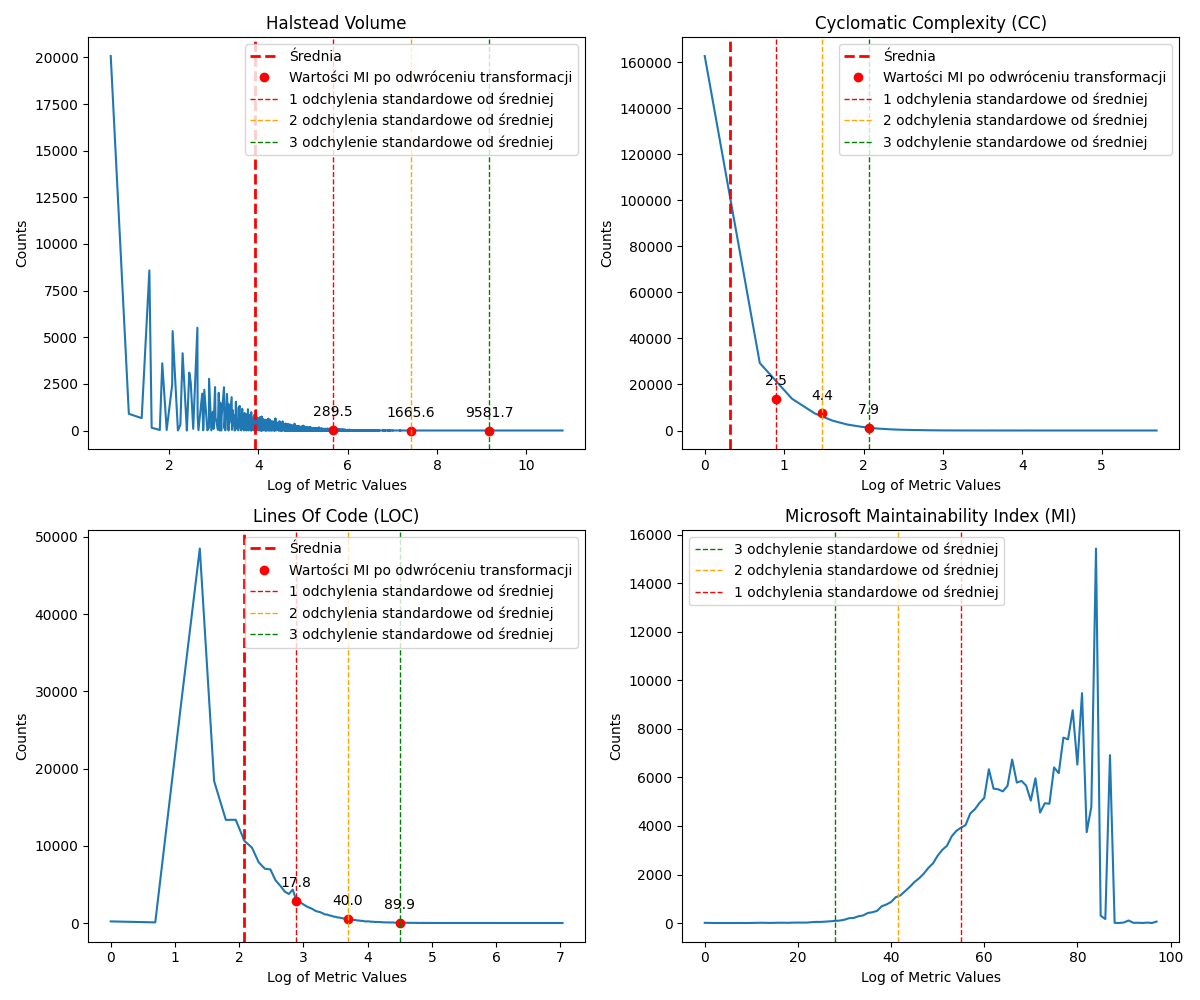
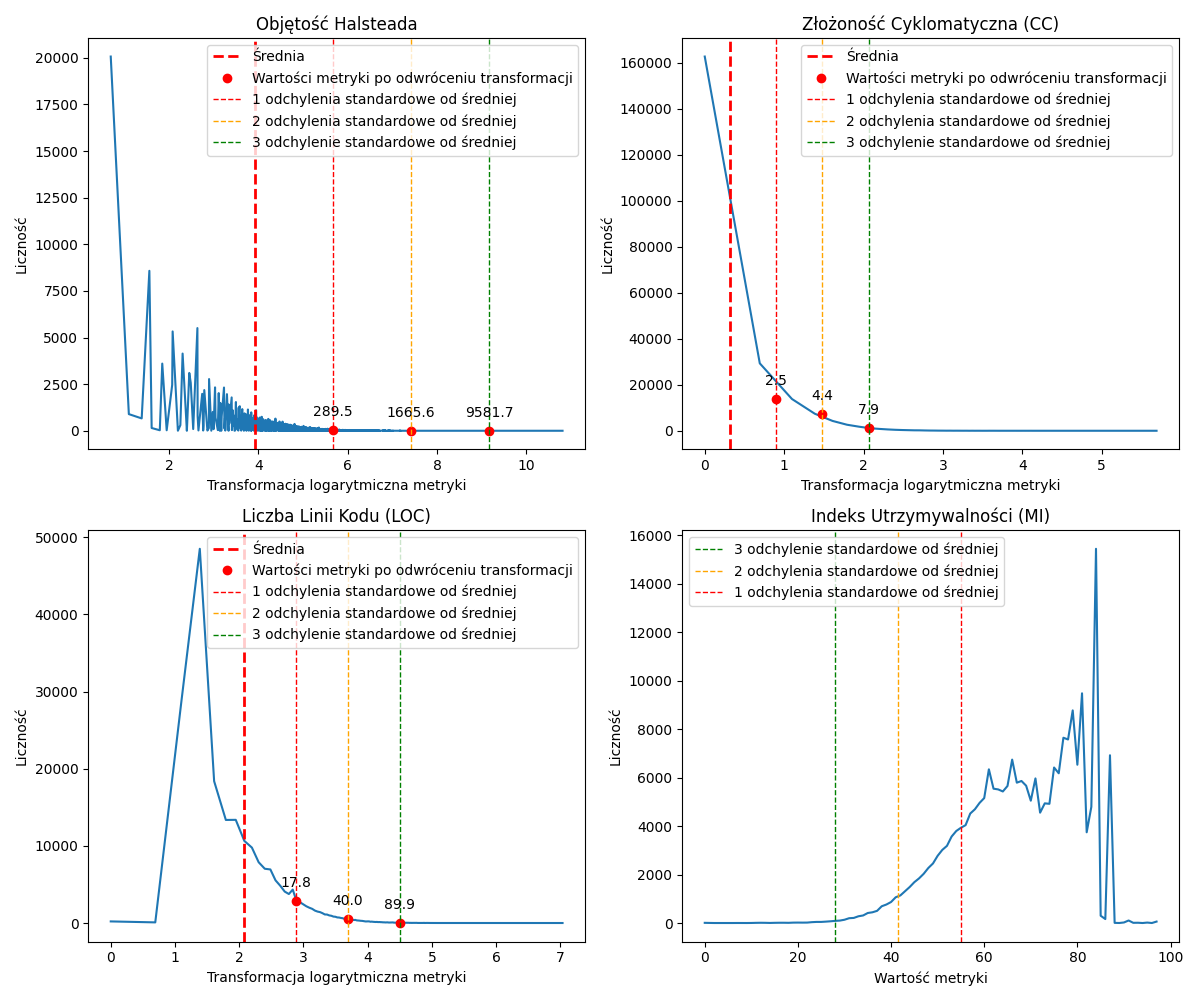
calculating log transformation for components - translation to polish

diff --git a/calculating_log_for_components.py b/calculating_log_for_components.py
@@ -5,6 +5,16 @@ import numpy as np
 import matplotlib.pyplot as plt
 
 
+translation_map = {
+    'Halstead Volume': 'Objętość Halsteada',
+    'Cyclomatic Complexity (CC)': 'Złożoność Cyklomatyczna (CC)',
+    'Lines Of Code (LOC)': 'Liczba Linii Kodu (LOC)',
+    'Microsoft Maintainability Index (MI)': 'Indeks Utrzymywalności (MI)',
+    'Maintainability Index (MI) - calculated': 'Wyliczony Indeks Utrzymywalności (MI)'
+}
+
+
+
 def calculate_maintainability_index(halstead_volume, cc, loc):
     return int(171.0 - 5.2 * math.log(halstead_volume) - 0.23 * cc - 16.2 * math.log(loc)) * (100.0 / 171.0)
 
@@ -70,7 +80,7 @@ def main():
         ]
 
         plt.plot(threshold_log_metrics, counts_threshold_log_metrics, marker='o', color='red', linestyle='None',
-                 label=f'Wartości MI po odwróceniu transformacji')
+                 label=f'Wartości metryki po odwróceniu transformacji')
 
         for threshold, threshold_name, threshold_color in zip(threshold_log_metrics, threshold_log_metrics_names,
                                                               threshold_log_metrics_colors):
@@ -85,9 +95,9 @@ def main():
                 ha='center'
             )
 
-        plt.title(metric)
-        plt.xlabel('Log of Metric Values')
-        plt.ylabel('Counts')
+        plt.title(translation_map[metric])
+        plt.xlabel('Transformacja logarytmiczna metryki')
+        plt.ylabel('Liczność')
         plt.legend()
 
     plt.subplot(2, 2, 4)
@@ -101,9 +111,9 @@ def main():
 
     plt.tight_layout()
 
-    plt.title("Microsoft Maintainability Index (MI)")
-    plt.xlabel('Log of Metric Values')
-    plt.ylabel('Counts')
+    plt.title(translation_map["Microsoft Maintainability Index (MI)"])
+    plt.xlabel('Wartość metryki')
+    plt.ylabel('Liczność')
     plt.legend()
     plt.savefig("./plots/plot_log_transformation_for_components.png")
 
